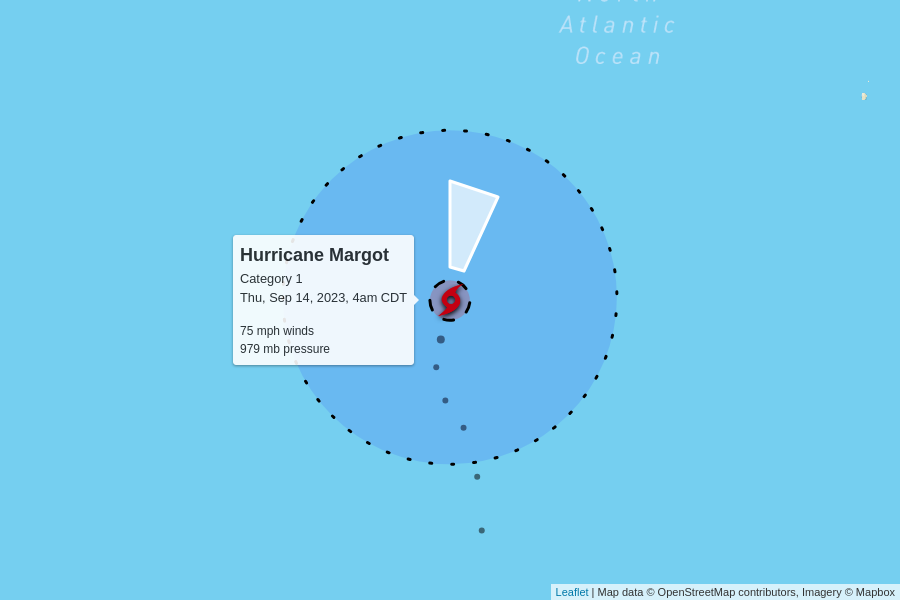
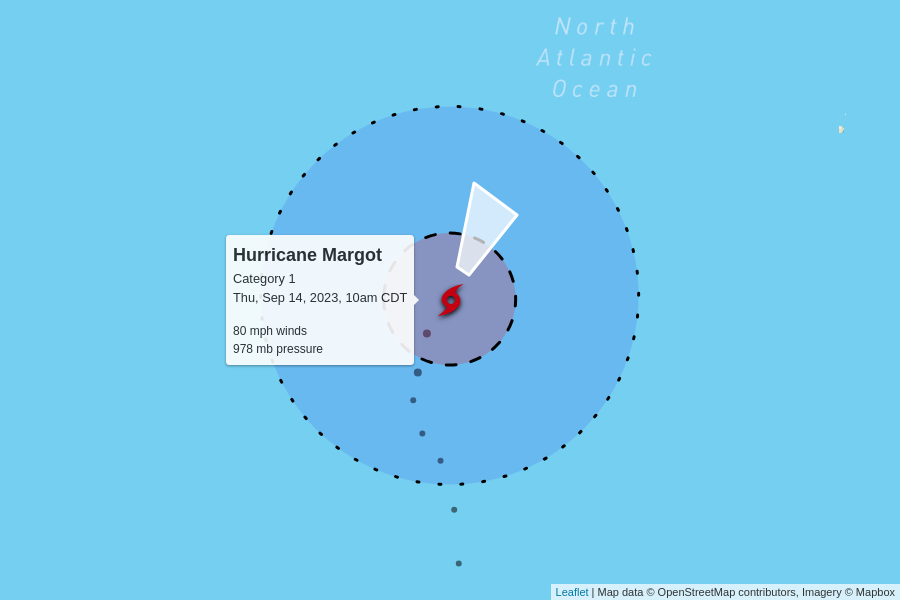
automatic update

diff --git a/docs/index.html b/docs/index.html
@@ -101,10 +101,10 @@
 
     <table>
       <tr>
-        <td colspan="6" class="storm category-2" >
+        <td colspan="6" class="storm category-1" >
           <h2>
-            Hurricane Lee - Category 2
-            <p class="updated">last updated <span data-time>2023-09-14T12:00:00.000Z</span></p>
+            Hurricane Lee - Category 1
+            <p class="updated">last updated <span data-time>2023-09-14T15:00:00.000Z</span></p>
           </h2>
         </td>
       </tr>
@@ -119,12 +119,12 @@
       </tr>
       <tr>
         <td class="spacer"></td>
-        <td>100 mph<br>0 mph since last update</td>
-        <td>955 mb<br>+2 mb since last update</td>
+        <td>90 mph<br>-10 mph since last update</td>
+        <td>956 mb<br>+1 mb since last update</td>
         <td>
-          12 mph to the north
+          14 mph to the north
           <br/>
-          <span style="display: inline-block; font-size: 1.5em; transform: rotate(350deg);">↑</span>
+          <span style="display: inline-block; font-size: 1.5em; transform: rotate(360deg);">↑</span>
         </td>
         <td><a href="https://raw.githubusercontent.com/mgwalker/atlantic-hurricanes/main/data/csv/AL132023.csv">AL132023.csv</a></td>
         <td><a href="https://www.nhc.noaa.gov/archive/2023/LEE.shtml?">NHC advisories</a></td>
@@ -148,7 +148,7 @@
         <td colspan="6" class="storm category-1" >
           <h2>
             Hurricane Margot - Category 1
-            <p class="updated">last updated <span data-time>2023-09-14T09:00:00.000Z</span></p>
+            <p class="updated">last updated <span data-time>2023-09-14T15:00:00.000Z</span></p>
           </h2>
         </td>
       </tr>
@@ -163,12 +163,12 @@
       </tr>
       <tr>
         <td class="spacer"></td>
-        <td>75 mph<br>-10 mph since last update</td>
-        <td>979 mb<br>+7 mb since last update</td>
+        <td>80 mph<br>+5 mph since last update</td>
+        <td>978 mb<br>-1 mb since last update</td>
         <td>
           6 mph to the north-northeast
           <br/>
-          <span style="display: inline-block; font-size: 1.5em; transform: rotate(15deg);">↑</span>
+          <span style="display: inline-block; font-size: 1.5em; transform: rotate(30deg);">↑</span>
         </td>
         <td><a href="https://raw.githubusercontent.com/mgwalker/atlantic-hurricanes/main/data/csv/AL142023.csv">AL142023.csv</a></td>
         <td><a href="https://www.nhc.noaa.gov/archive/2023/MARGOT.shtml?">NHC advisories</a></td>
